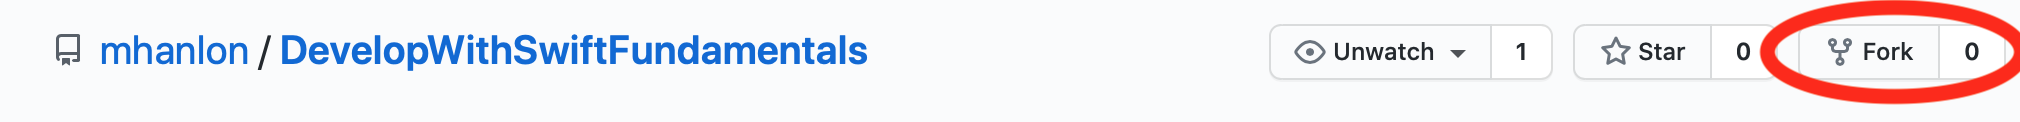
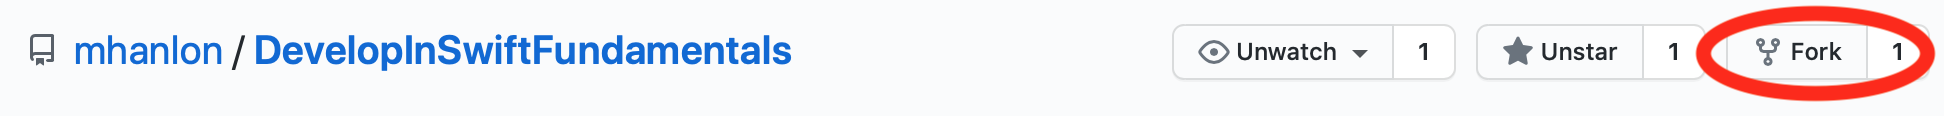
Changing the repo name to match the book name.

Changed region(s): [[0.5864, 0.0, 1.0, 0.8017], [0.0, 0.2845, 0.4321, 0.5948], [0.8951, 0.7759, 0.9877, 0.8793]]

diff --git a/README.md b/README.md
@@ -1,4 +1,4 @@
-# DevelopWithSwiftFundamentals
+# DevelopInSwiftFundamentals
 A repository with the student materials from the Xcode 11 version of Develop with Swift Fundamentals
 
 This repo contains the Swift Playground labs from Apple's [Develop with Swift Fundamentals](https://books.apple.com/us/book/develop-in-swift-fundamentals/id1511184145) curriculum.
@@ -14,7 +14,7 @@ If you are taking the Develop with Swift Fundamentals course, you should fork th
 ![](images/fork.png)
 
 
-Then, in Terminal.app on your Mac, `cd` into the directory in which you keep your projects, then run `git clone https://github.com/<your username>/DevelopWithSwiftFundamentals.git`
+Then, in Terminal.app on your Mac, `cd` into the directory in which you keep your projects, then run `git clone https://github.com/<your username>/DevelopInSwiftFundamentals.git`
 
 ![](images/git-clone.png)
 
@@ -28,14 +28,14 @@ Read through the lessons and follow along wherever possible. At the end of each 
 ![](images/the-labs.png)
 
 
-When you've completed all the labs, `git add`, `git commit`, and `git push origin master` your code back up to Github. On the page for your fork of the repo `(https://github.com/<your_username>/DevelopWithSwiftFundamentals)` you'll push the button to create a new pull request:
+When you've completed all the labs, `git add`, `git commit`, and `git push origin master` your code back up to Github. On the page for your fork of the repo `(https://github.com/<your_username>/DevelopInSwiftFundamentals)` you'll push the button to create a new pull request:
 
 ![](images/new-pull-request-button.png)
 
 
 
 
-Make sure the base repository is `mhanlon/DevelopWithSwiftFundamentals` and the base is `master`, like so:
+Make sure the base repository is `mhanlon/DevelopInSwiftFundamentals` and the base is `master`, like so:
 
 ![](images/pull-request-base.png)
 
